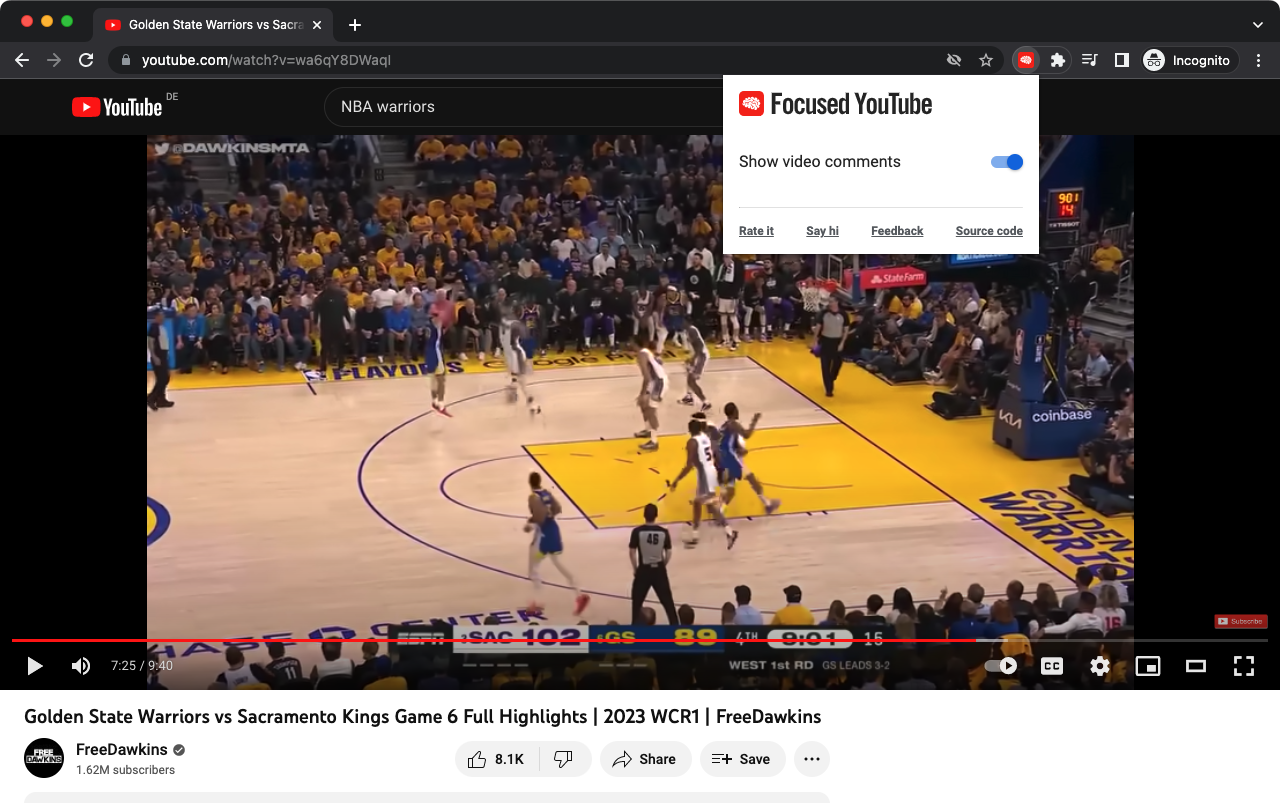
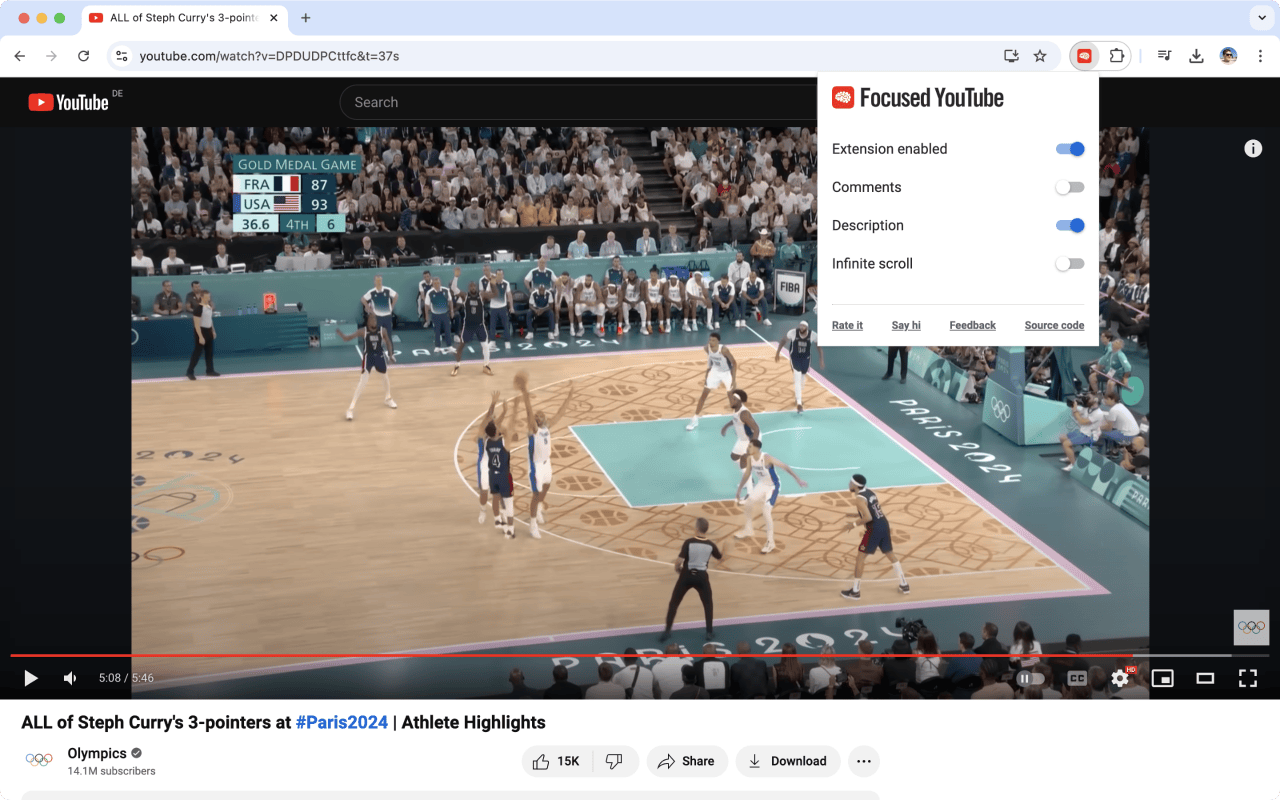
Updated screenshots, added hover menu screenshot

diff --git a/README.md b/README.md
@@ -6,19 +6,19 @@
 
 ## Screenshots
 
-### 🏠 Distraction-free YouTube homepage.
+### 🏠 Distraction-free YouTube homepage
 
 <img width="800" alt="home_page" src="https://raw.githubusercontent.com/makaroni4/focused_youtube/main/readme/home_page.png">
 
-### 🔍 Clean search page.
+### 🔍 Clean search page
 
 <img width="800" alt="search_page" src="https://raw.githubusercontent.com/makaroni4/focused_youtube/main/readme/search_page.png">
 
-### 📺 Noise-free video page.
+### 📺 Noise-free video page
 
 <img width="800" alt="video_page" src="https://raw.githubusercontent.com/makaroni4/focused_youtube/main/readme/video_page.png">
 
-### 	:last_quarter_moon_with_face: Dark mode (depends of your system settings).
+### 	:last_quarter_moon_with_face: Dark mode (depends of your system settings)
 
 <img width="800" alt="search_page" src="https://raw.githubusercontent.com/makaroni4/focused_youtube/main/readme/home_page_dark.png">
 
@@ -28,9 +28,13 @@ Make sure to enable Dark Mode in your Chrome before testing it:
 
 https://support.google.com/chrome/answer/9275525?hl=en&co=GENIE.Platform%3DDesktop
 
-### 💬 An option to show/hide the comments section.
+### 💬 Options to show/hide comments or description
 
 <img width="800" alt="search_page" src="https://raw.githubusercontent.com/makaroni4/focused_youtube/main/readme/popup.png">
+
+### 🔗 Hover over YouTube logo to see the navigation menu
+
+<img width="800" alt="search_page" src="https://raw.githubusercontent.com/makaroni4/focused_youtube/main/readme/hover_menu.png">
 
 ### 📱 Works in mobile browser as well
 
